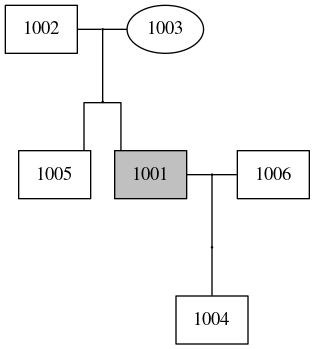
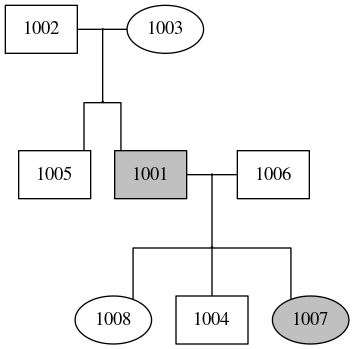
added 4 generation example

diff --git a/ped_to_dot.py b/ped_to_dot.py
@@ -39,8 +39,6 @@ affected_female_children_sample_ids = []
 affected_unknown_children_sample_ids = []
 
 parents = []
-dads = {}
-moms = {}
 sample_paternal_maternal = []
 
 # populate lists of individuals
@@ -70,8 +68,6 @@ for i, sample in ped.iterrows():
   elif paternal_id != '0' and maternal_id != '0':
     children_sample_ids.append(sample_id)
     parents.append(paternal_id + "_" + maternal_id)
-    dads.update({sample_id : paternal_id})
-    moms.update({sample_id : maternal_id})
     sample_paternal_maternal.append(sample_id + "_" + paternal_id + "_" + maternal_id)
     if affected_status == 1:
       if sex == 2:
@@ -130,6 +126,7 @@ gen_count = len(parent_sample_ids) - 1
 
 pgen_nodes = []
 cgen_nodes = []
+
 for i in parents:
   pgen_nodes.append("parentnode_" + str(i))
   cgen_nodes.append("childnode_" + str(i))
@@ -150,7 +147,6 @@ for i in pgen_nodes_uniq:
 for i in cgen_nodes_uniq:
   print("\t\"" + i + "\" [shape=circle,label=\"\",height=0.01,width=0.01];")
 
-
 # connect parents
 parents_uniq = []
 for i in parents:
@@ -170,66 +166,5 @@ for i in parents_uniq:
 for i in sample_paternal_maternal:
   isplit = i.split("_")
   print("\t\"childnode_" + str(isplit[1]) + "_" + str(isplit[2]) + "\" -> \"" + str(isplit[0]) + "\"")
-
-
-
-
-
-
-
-
-#for i in children_sample_ids:
-#  print(i)
-
-#for i in gen_nodes:
-#  print(i)
- 
-#for dadkey, dadval in dads.items():
-#  print(dadkey, dadval)
-#  for momkey, momval in moms.items():
-#    print("\t\"parentnode" + dadval + momval + "\"" + " -> \"childnode" + dadval + momval + "\"")
-#  print("sample is: " + k + ", " + "dad is: " + v)
-# draw and connect parent nodes
-#print("\t{rank=same; " + " -> ".join(str(i) for i in parent_sample_ids) + "};")
-
-# draw and connect parent to children
-#for k, v in dads.items():
-#  print(k, v)
-#print("\t{rank=same; " + dads
-
-# get number of children
-#children_count = len(children_sample_ids)
-#tmp_children_count = children_counti
-
-# check if even or odd number of children
-#if children_count %2 == 0:
-# tmp_children_count = children_count + 1
-
-# empty list for children nodes
-#children_nodes = []
-
-# append children nodes to list and print
-#for i in range(children_count):
-# children_nodes.append("children_node" + str(i))
-# print("\t\"children_node" + str(i) +"\" [shape=circle,label=\"\",height=0.01,width=0.01];")
-
-# draw and connect parent nodes
-#print("\t{rank=same; \"" + parent_sample_ids[0] + "\" -> \"parent_node\" -> \"" + parent_sample_ids[1] + "\"};")
-
-# draw children nodes
-#print("\t{rank=same; " + " -> ".join(str(i) for i in children_nodes) + "};")
-
-# connect parent node to middle node
-#print("\t\"parent_node\" -> \"middle_node\"")
-
-# connect children_nodes to children
-#for i, child_sample_id in enumerate(children_sample_ids):
-#        print("\t\"middle_node" + "\" -> \"" + child_sample_id + "\"")
-
-#print("children nodes to draw: " + str(tmp_children_count))
-#print("number of children is: " + str(children_count))
-
-#print("parent sample ids: " + str(parent_sample_ids))
-#print("children sample ids: " + str(children_sample_ids))
 
 print("}")

diff --git a/README.md b/README.md
@@ -4,20 +4,21 @@ A simple python script to draw (multi generation!) pedigrees with graphviz
 ![quintet.png](examples/images/quintet.png "quintet.png")
 
 ## Usage
-Make dot (to stdout):
+Make dot (to stdout), can also read from /dev/stdin:
 ```
 python ped_to_dot.py $PED
 ```
-or from stdin
 
-```
-grep ^kindred01 $PED | python ped_to_dot.py /dev/stdin
-```
-
-Make dot, png and view:
+Make dot, save png and view with eog:
 ```
 python ped_to_dot.py $PED | dot -T png -o your.png ; eog your.png
 ```
+
+## Requirements
+- [python](https://www.python.org/) 2.7.15 or greater
+- to-spec [ped](https://gatkforums.broadinstitute.org/gatk/discussion/7696/pedigree-ped-files) file input
+- dot/[graphviz](https://graphviz.gitlab.io/)
+- [eog](https://wiki.gnome.org/Apps/EyeOfGnome)
 
 ## Examples
 Are in examples/
@@ -29,5 +30,6 @@ Are in examples/
 ![septet.png](examples/images/septet.png "septet.png")
 
 ## Limitations
+- Does not work with multi-kindred ped files, you must subset using
 - Some slightly wonky behavior with 8 or more kids
 - Please add others you find to Issues
